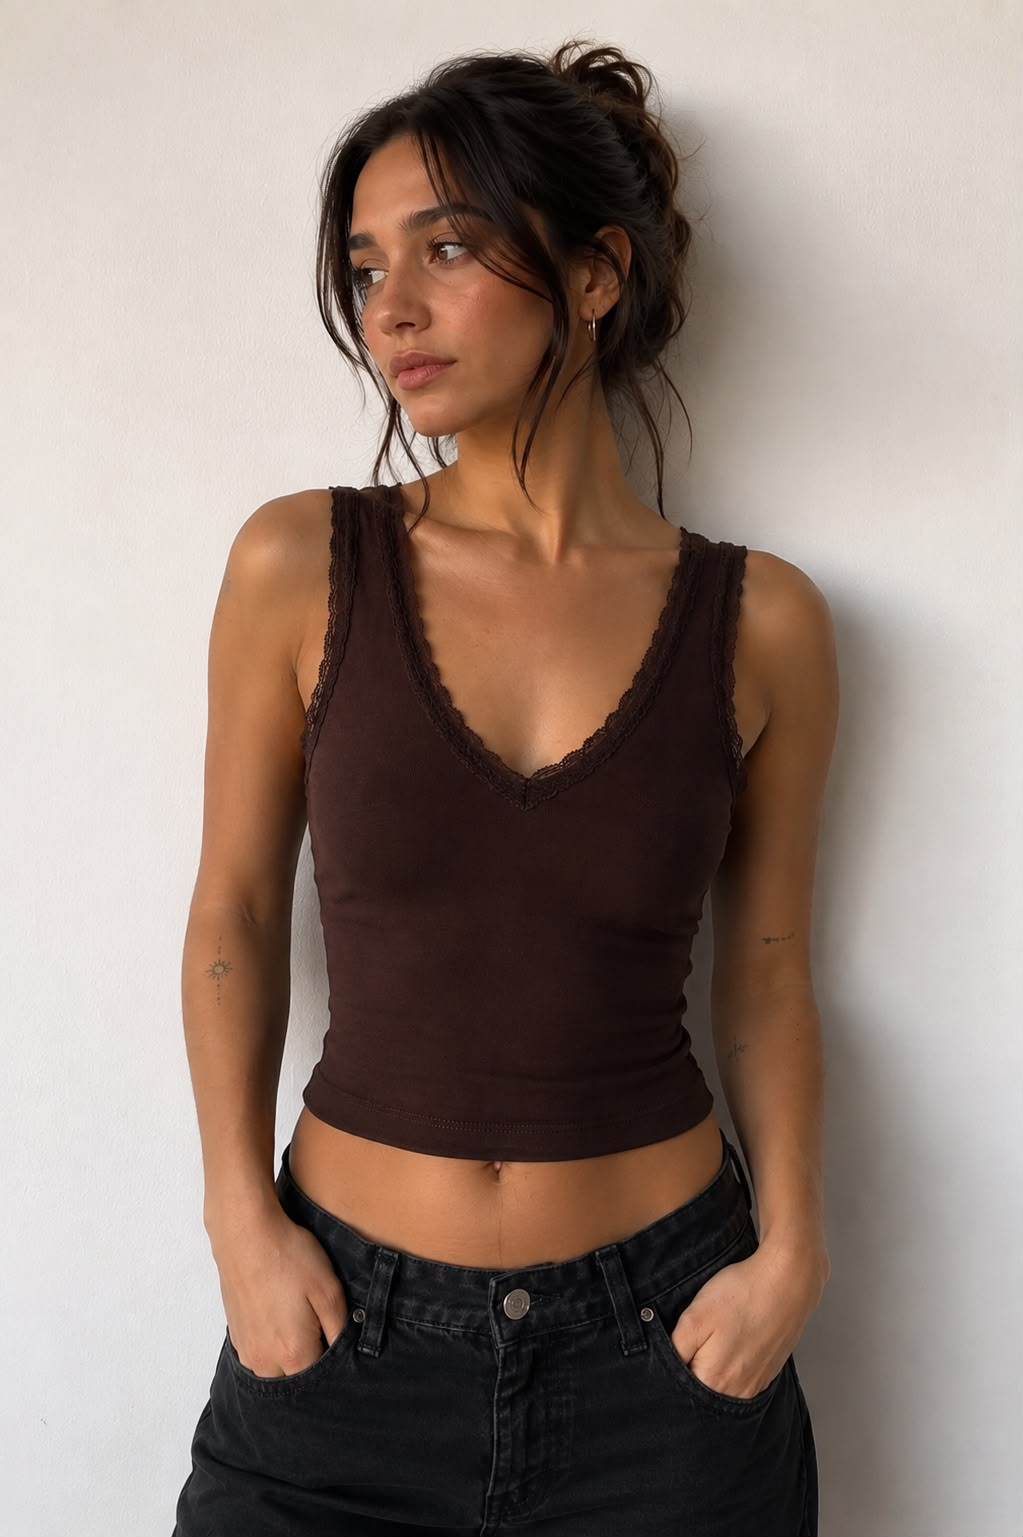
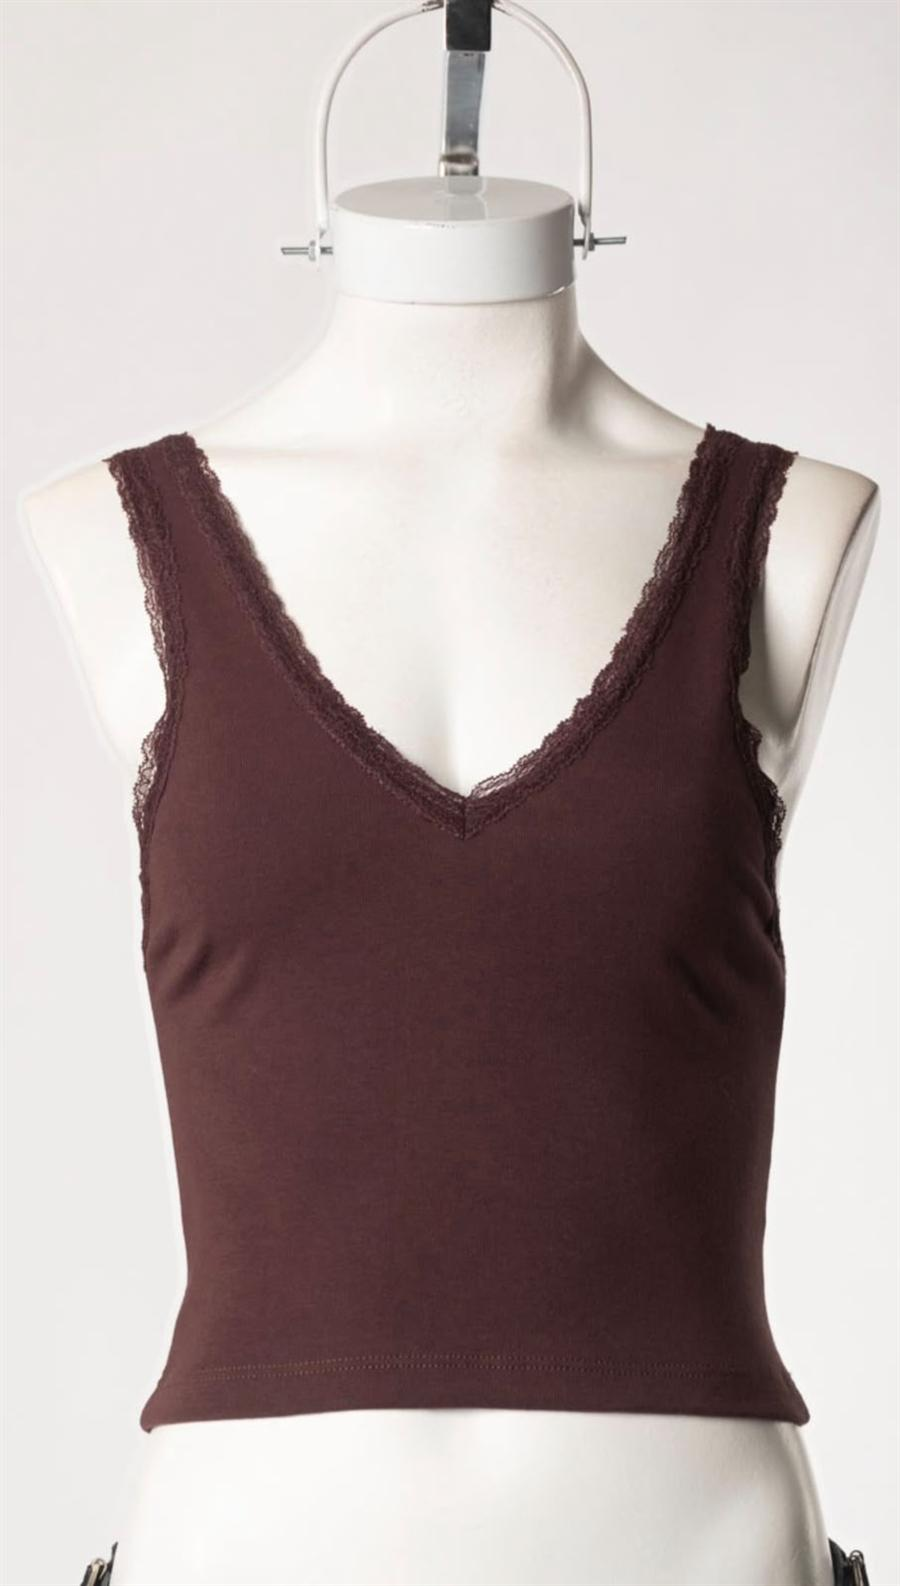
Top Rihanna: nueva foto principal (en maniqui)

diff --git a/index.html b/index.html
@@ -1225,8 +1225,8 @@
     {
       id:"rihanna", name:"Top Rihanna", tag:null, oneOnly:true, cat:"tops",
       desc:"Escote en V con puntilla en el borde, color chocolate.",
-      price:15000, img:"img/p/rihanna_choco-e5aeba4b.jpg",
-      alt:"Top Rihanna chocolate, escote en V con puntilla", size:"tall",
+      price:15000, img:"img/p/rihanna_maniqui-ce6acc24.jpg",
+      alt:"Top Rihanna chocolate, escote en V con puntilla, en maniquí", size:"tall",
       measures:{
         L:{ "Contorno de pecho":"66cm (se estira hasta 98cm)", "Largo":"50cm" }
       },
